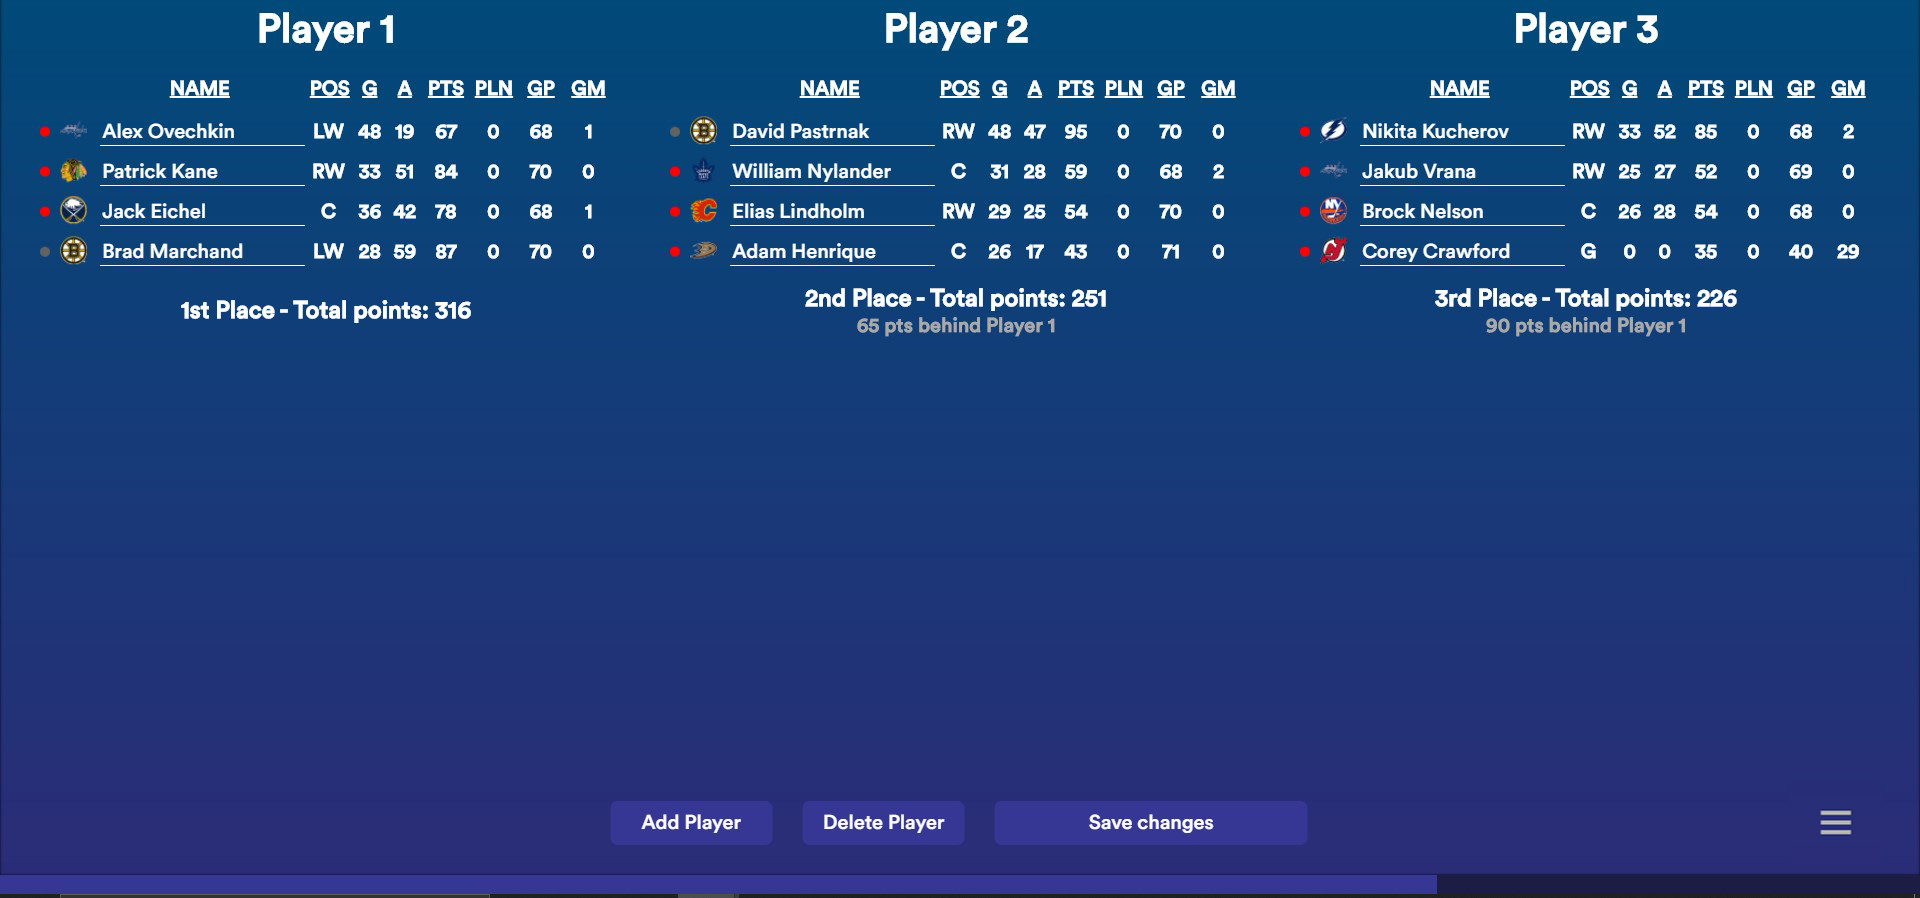
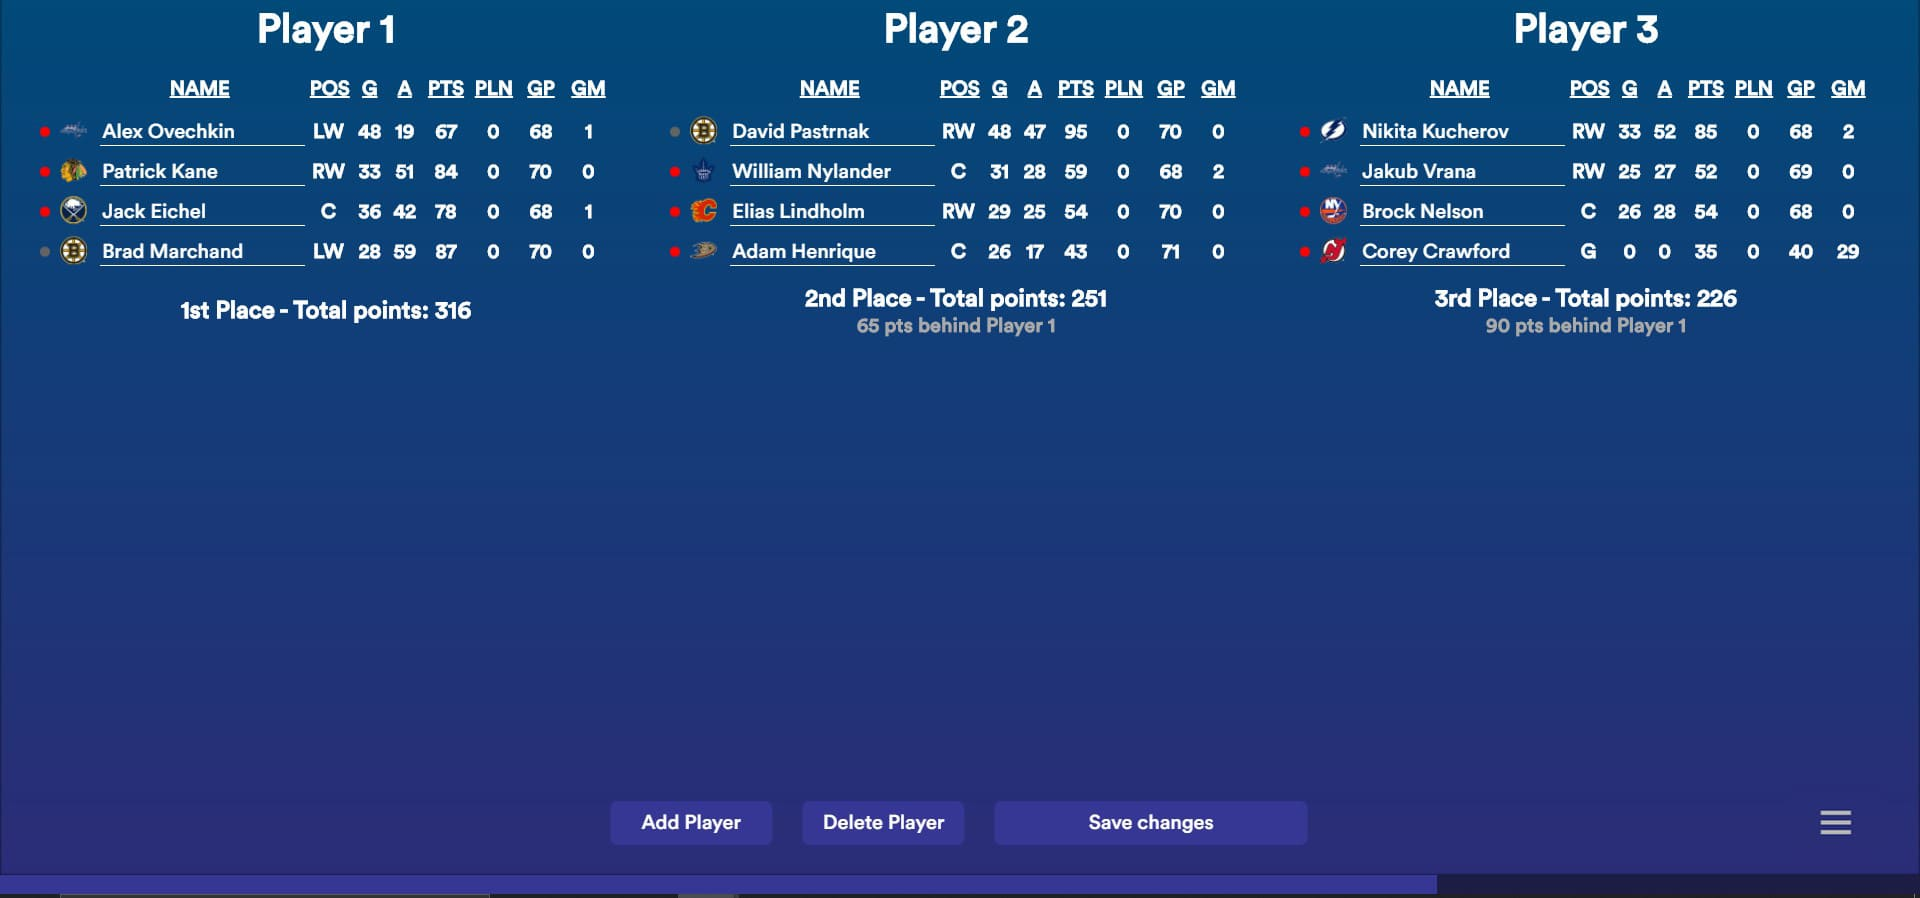
compress images

diff --git a/README.md b/README.md
@@ -8,8 +8,8 @@
 
 <br />
 
-**Create games with up to 24 friends** ![new game](https://github.com/TahaInc/Hockey-Pool/blob/main/images/screenshot_1.jpg?raw=true)
+**Create games with up to 24 friends** ![new game](./images/screenshot_1.jpg)
 
-**Your picks are saved in the cloud, where you can access them anytime** ![load game](https://github.com/TahaInc/Hockey-Pool/blob/main/images/screenshot_2.jpg?raw=true)
+**Your picks are saved in the cloud, where you can access them anytime** ![load game](./images/screenshot_2.jpg)
 
-**See all your stats and how you compare to your friends** ![see stats](https://github.com/TahaInc/Hockey-Pool/blob/main/images/screenshot_3.jpg?raw=true)
+**See all your stats and how you compare to your friends** ![see stats](./images/screenshot_3.jpg)
